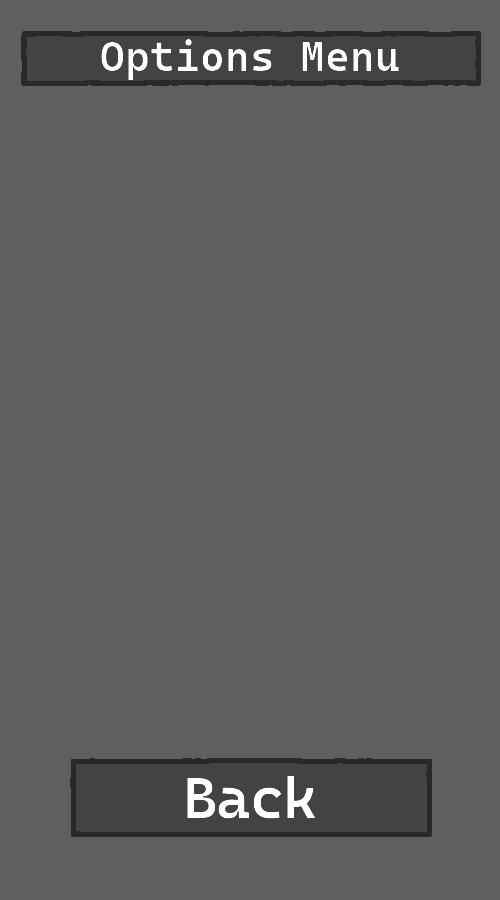
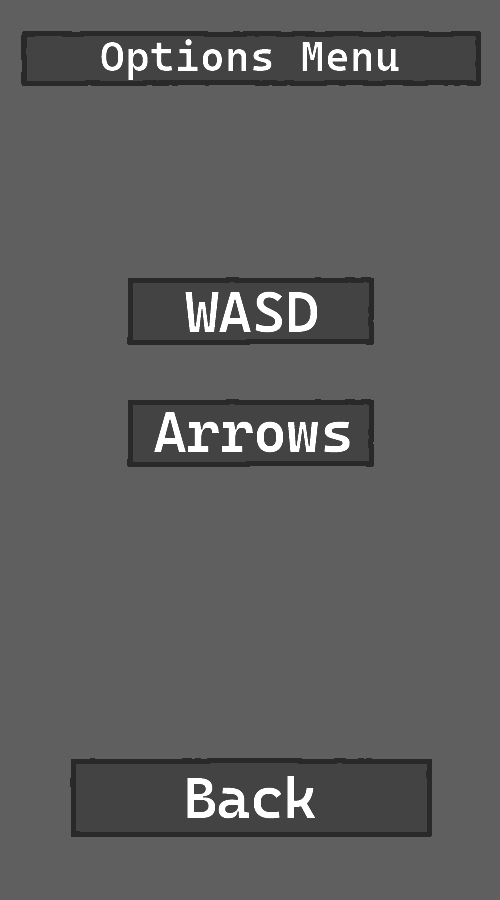
Added 2 control options

Changed region(s): [[0.24, 0.28, 0.75, 0.4044], [0.24, 0.4356, 0.75, 0.5289]]

diff --git a/src/main.cpp b/src/main.cpp
@@ -367,7 +367,7 @@ void Game::Events(sf::RenderWindow& window) {
 	}
 
 	//Resume button
-	if ((sf::Mouse::getPosition(window).x >= 70 && sf::Mouse::getPosition(window).x <= 431) && (sf::Mouse::getPosition(window).y >= 309 && sf::Mouse::getPosition(window).y <= 386) && isGamePaused) {
+	if ((sf::Mouse::getPosition(window).x >= 70 && sf::Mouse::getPosition(window).x <= 431) && (sf::Mouse::getPosition(window).y >= 309 && sf::Mouse::getPosition(window).y <= 386) && isGamePaused && !isGameOptions) {
 		if (sf::Mouse::isButtonPressed(sf::Mouse::Left)) {
 			isGamePaused = false;
 			justResumed = true;
@@ -383,7 +383,7 @@ void Game::Events(sf::RenderWindow& window) {
 	}
 
 	//Quit button
-	if ((sf::Mouse::getPosition(window).x >= 70 && sf::Mouse::getPosition(window).x <= 431) && (sf::Mouse::getPosition(window).y >= 556 && sf::Mouse::getPosition(window).y <= 633) && isGamePaused) {
+	if ((sf::Mouse::getPosition(window).x >= 70 && sf::Mouse::getPosition(window).x <= 431) && (sf::Mouse::getPosition(window).y >= 556 && sf::Mouse::getPosition(window).y <= 633) && isGamePaused && !isGameOptions) {
 		if (sf::Mouse::isButtonPressed(sf::Mouse::Left)) {
 			window.close();
 		}
@@ -418,6 +418,20 @@ void Game::Options(sf::RenderWindow& window) {
 	if ((sf::Mouse::getPosition(window).x >= 70 && sf::Mouse::getPosition(window).x <= 431) && (sf::Mouse::getPosition(window).y >= 758 && sf::Mouse::getPosition(window).y <= 836)) {
 		if (sf::Mouse::isButtonPressed(sf::Mouse::Left)) {
 			isGameOptions = false;
+		}
+	}
+
+	//WASD button
+	if ((sf::Mouse::getPosition(window).x >= 127 && sf::Mouse::getPosition(window).x <= 373) && (sf::Mouse::getPosition(window).y >= 277 && sf::Mouse::getPosition(window).y <= 344)) {
+		if (sf::Mouse::isButtonPressed(sf::Mouse::Left)) {
+			player->controlSetup = false;
+		}
+	}
+
+	//Arrows button
+	if ((sf::Mouse::getPosition(window).x >= 127 && sf::Mouse::getPosition(window).x <= 373) && (sf::Mouse::getPosition(window).y >= 399 && sf::Mouse::getPosition(window).y <= 466)) {
+		if (sf::Mouse::isButtonPressed(sf::Mouse::Left)) {
+			player->controlSetup = true;
 		}
 	}
 }

diff --git a/src/player.cpp b/src/player.cpp
@@ -9,6 +9,8 @@ Player::Player(const sf::Texture& texture) : Shape(sf::IntRect(sf::Vector2i(0, 0
 	setTexture(texture);
 }
 
+bool Player::controlSetup = true;
+
 void Player::Update(const float& dt) {
 
 	Shape::Update(dt);
@@ -17,21 +19,35 @@ void Player::Update(const float& dt) {
 
 	const float playerSpeed = 400.f;
 
-	// Move Up
-	if (sf::Keyboard::isKeyPressed(sf::Keyboard::Up)) {
-		move(0.f, -playerSpeed * dt);
+
+	//If true, use arrows. Else use WASD
+	if (controlSetup) {
+		if (sf::Keyboard::isKeyPressed(sf::Keyboard::Up)) {		//Up
+			move(0.f, -playerSpeed * dt);
+		}
+		if (sf::Keyboard::isKeyPressed(sf::Keyboard::Down)) {	//Down
+			move(0.f, playerSpeed * dt);
+		}
+		if (sf::Keyboard::isKeyPressed(sf::Keyboard::Left)) {	//Left
+			move(-playerSpeed * dt, 0.f);
+		}
+		if (sf::Keyboard::isKeyPressed(sf::Keyboard::Right)) {	//Right
+			move(playerSpeed * dt, 0.f);
+		}
 	}
-	//Move Down
-	if (sf::Keyboard::isKeyPressed(sf::Keyboard::Down)) {
-		move(0.f, playerSpeed * dt);
-	}
-	//Move Left
-	if (sf::Keyboard::isKeyPressed(sf::Keyboard::Left)) {
-		move(-playerSpeed * dt, 0.f);
-	}
-	//Move Right
-	if (sf::Keyboard::isKeyPressed(sf::Keyboard::Right)) {
-		move(playerSpeed * dt, 0.f);
+	else {
+		if (sf::Keyboard::isKeyPressed(sf::Keyboard::W)) {	//Up
+			move(0.f, -playerSpeed * dt);
+		}
+		if (sf::Keyboard::isKeyPressed(sf::Keyboard::S)) {	//Down
+			move(0.f, playerSpeed * dt);
+		}
+		if (sf::Keyboard::isKeyPressed(sf::Keyboard::A)) {	//Left
+			move(-playerSpeed * dt, 0.f);
+		}
+		if (sf::Keyboard::isKeyPressed(sf::Keyboard::D)) {	//Right
+			move(playerSpeed * dt, 0.f);
+		}
 	}
 
 	// Check for boundaries

diff --git a/src/player.h b/src/player.h
@@ -5,6 +5,7 @@
 class Player : public Shape
 {
 public:
+	static bool controlSetup;
 	char idColour;
 	char idShape;
 	Player(const sf::Texture& texture);
